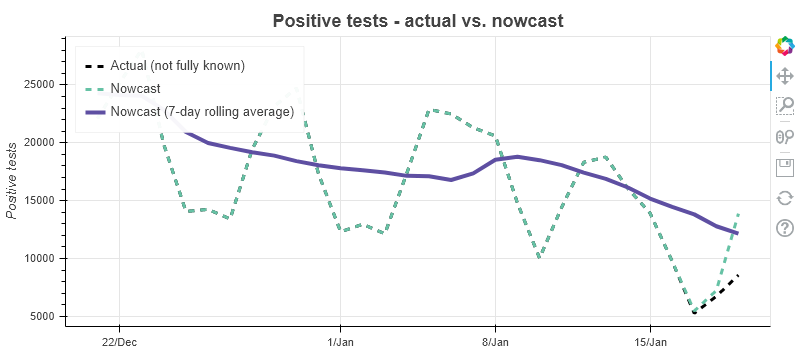
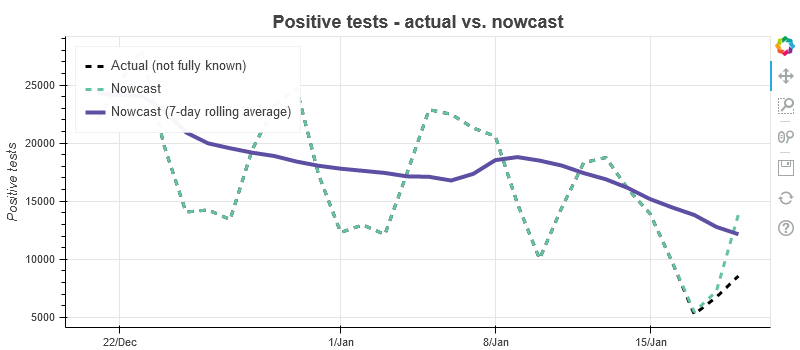
Fix issue with Germany after 15 jan

diff --git a/covid_19/tests/de/test_updating.py b/covid_19/tests/de/test_updating.py
@@ -37,18 +37,18 @@ def test_update_nowcasts():
     probs = probs
 
 
-@pytest.mark.skip("Only run manually")
+#@pytest.mark.skip("Only run manually")
 def test_updating():
     current_path = os.path.dirname(os.path.realpath(__file__))
     folder = os.path.join(current_path, r"../../../")
 
-    dt_today = datetime.date(2020, 12, 25)
+    dt_today = datetime.date(2021, 1, 20)
     dt = datetime.date(2020, 8, 1)
 
     repo = RkiAndGitHubRepositoryWithCaching(dt_today)
 
-    start_date = datetime.date(2020, 8, 1)
-    end_date = datetime.date(2020, 12, 23)
+    start_date = datetime.date(2021, 1, 16)
+    end_date = datetime.date(2021, 1, 19)
 
     for i in range(0, (end_date - start_date).days + 1):
         dt = start_date + datetime.timedelta(days=i)

diff --git a/covid_19/pandasutils.py b/covid_19/pandasutils.py
@@ -9,5 +9,4 @@ def filter_data_frame(data_frame: pd.DataFrame, first_date: datetime.date, last_
 
 
 def filter_series(ds: pd.Series, first_date: datetime.date, last_date: datetime.date) -> pd.DataFrame:
-    return ds[filter(lambda x: last_date + datetime.timedelta(days=1) > x > first_date - datetime.timedelta(days=1),
-                     ds.index)]
+    return ds[list(filter(lambda x: last_date + datetime.timedelta(days=1) > x > first_date - datetime.timedelta(days=1), ds.index))]

diff --git a/covid_19/de/dataretrieval.py b/covid_19/de/dataretrieval.py
@@ -57,6 +57,9 @@ class GitHubRepository:
 
 
 def get_rki_file_historical_from_github(dt: datetime.date):
+    if dt == datetime.date(2021, 1, 17):
+        df_rki = get_rki_file_historical_from_CharlesStr(dt)
+        return df_rki
     df_rki = get_rki_file_historical_from_micb25(dt)
     if df_rki is not None:
         return df_rki
